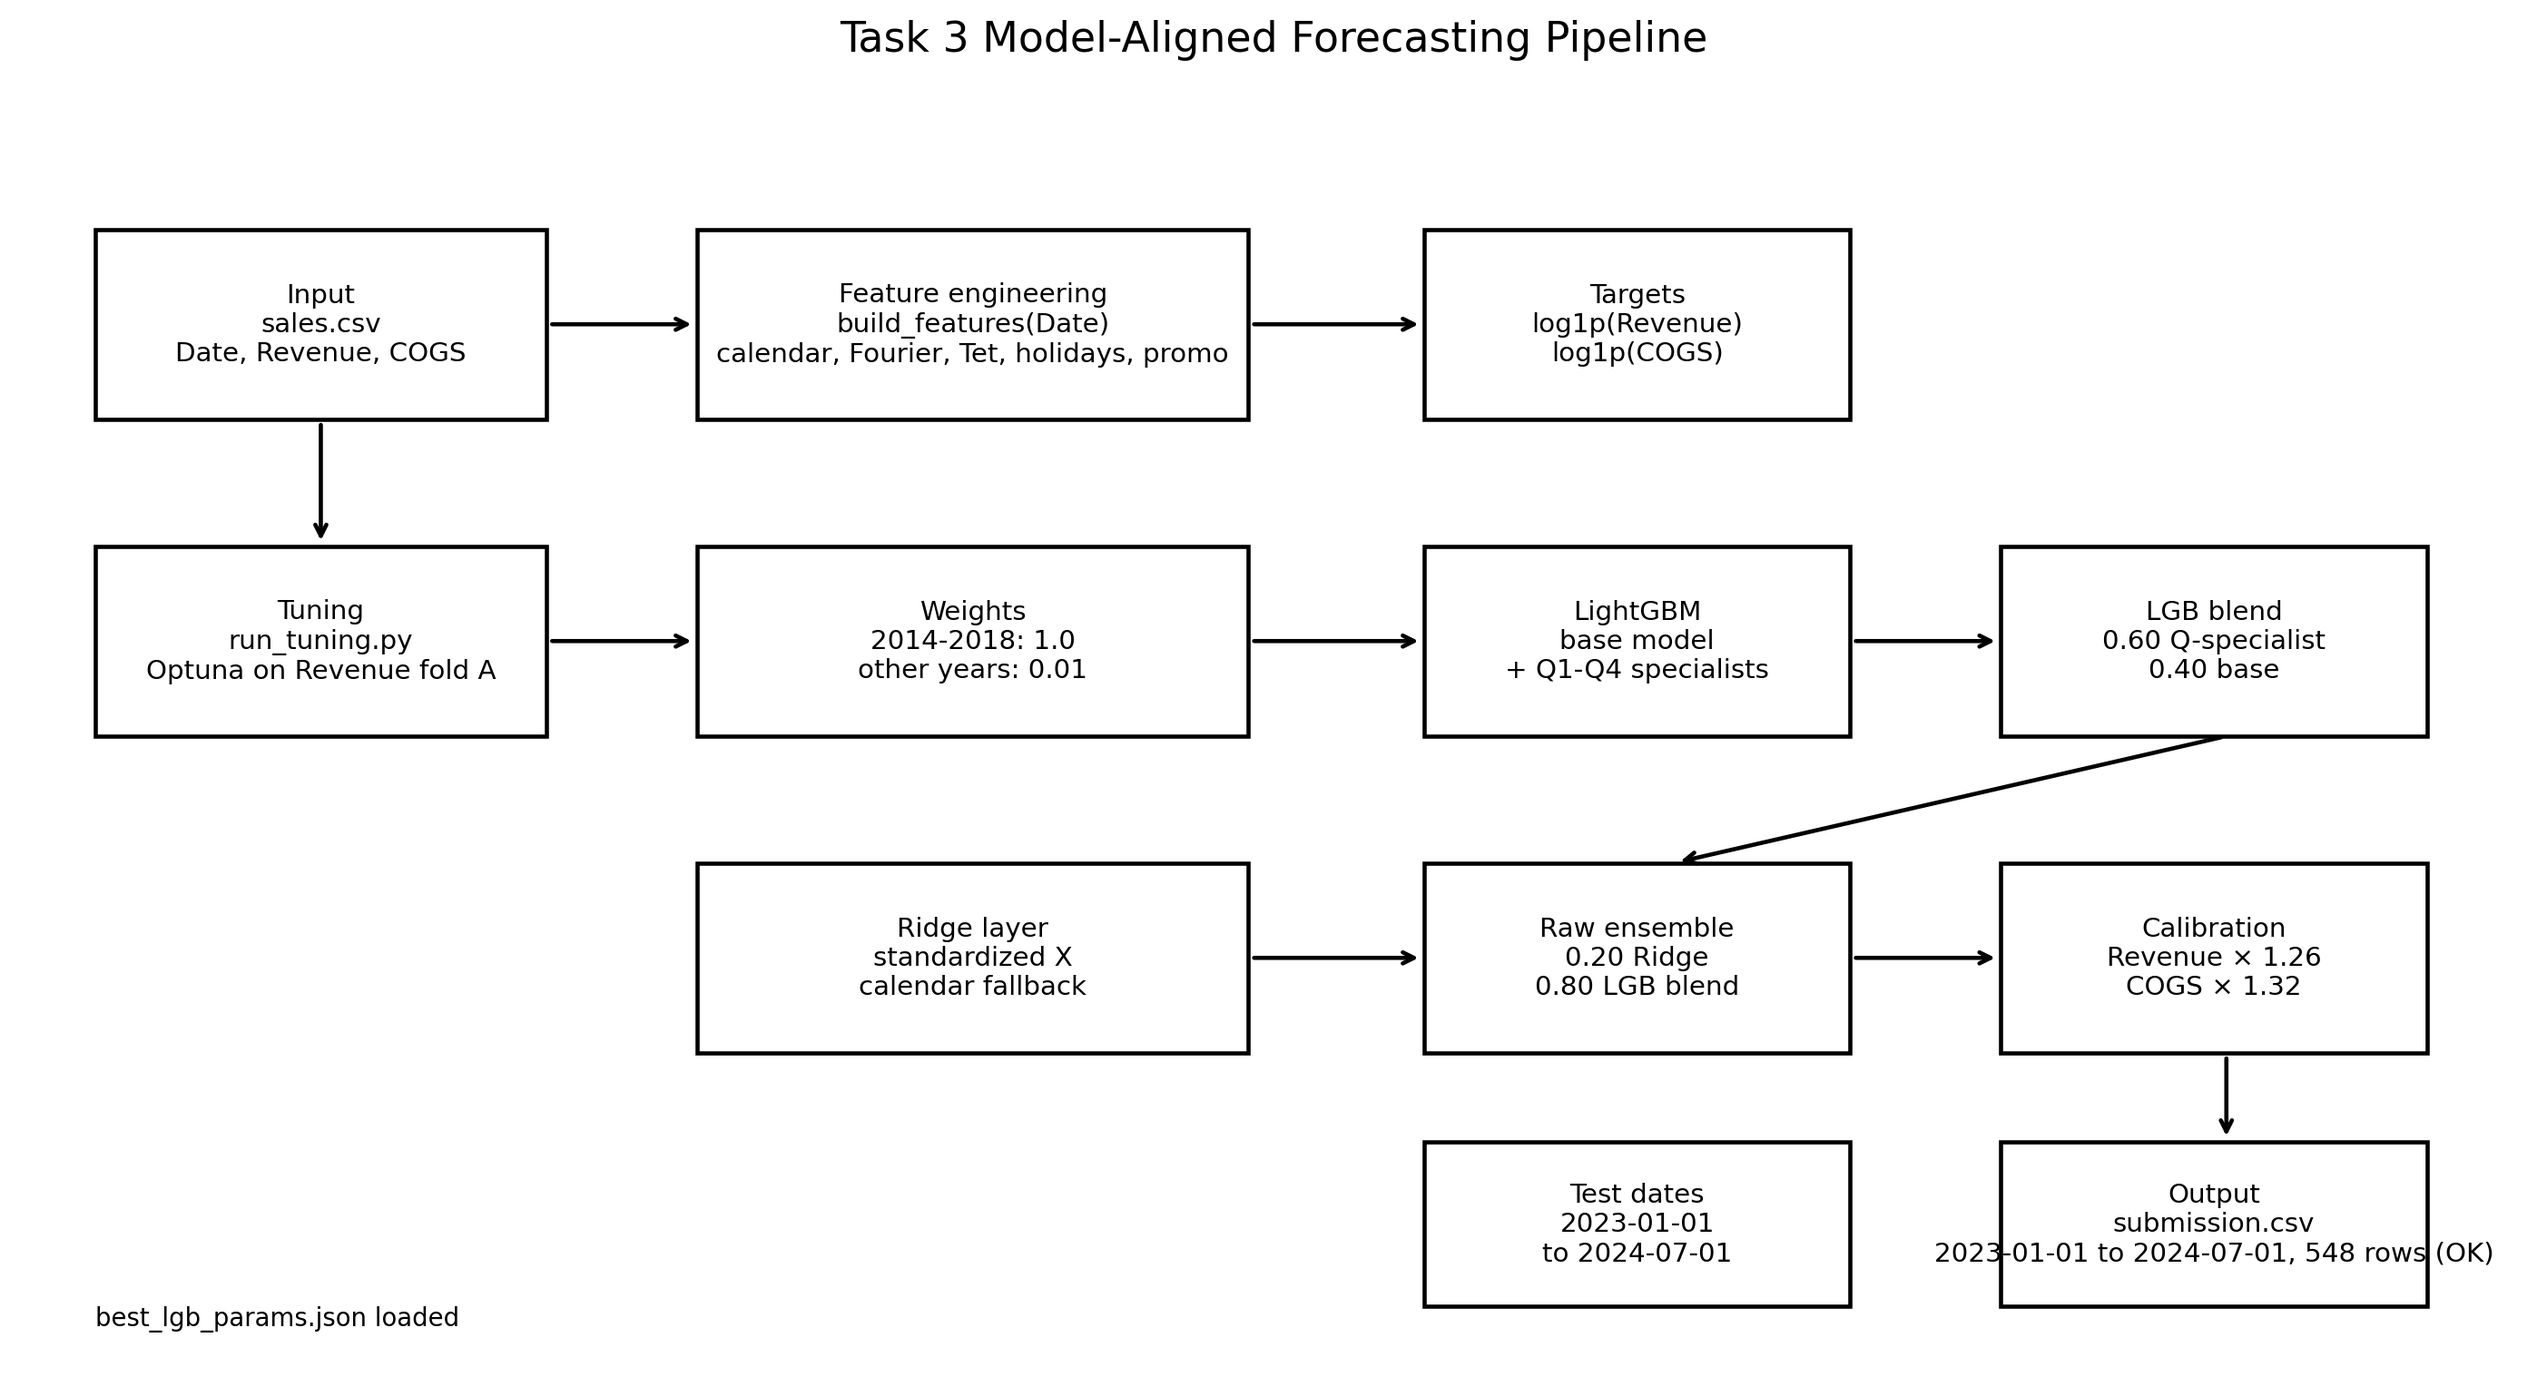
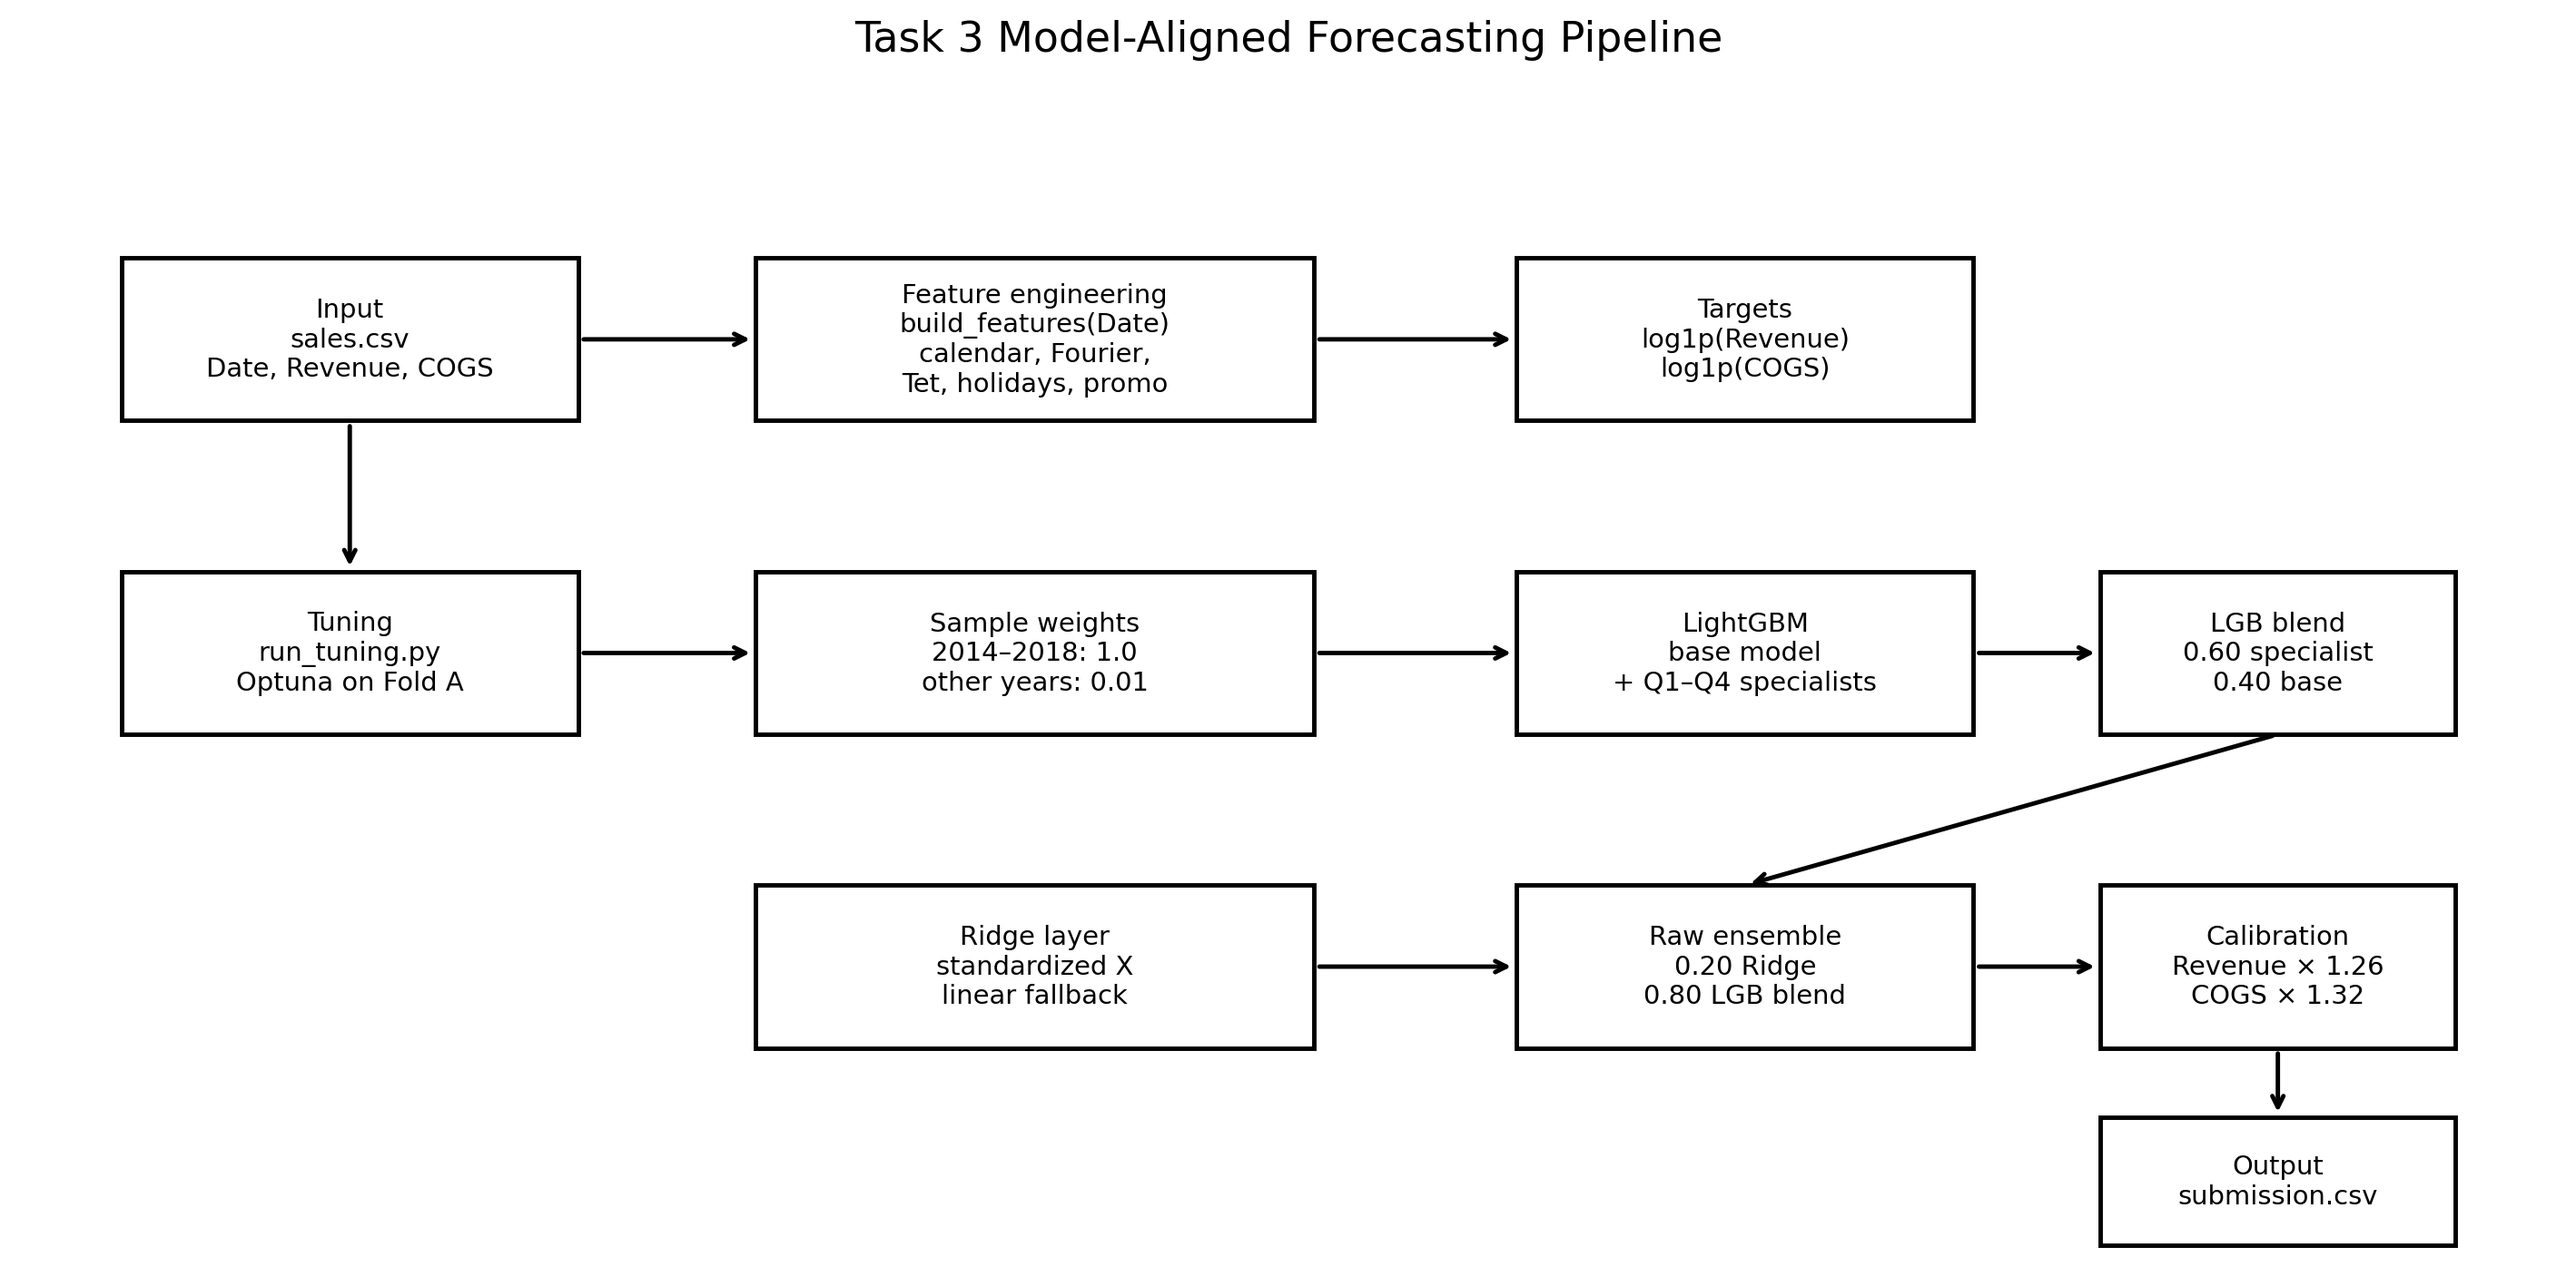
Final

diff --git a/make_task3_figures.py b/make_task3_figures.py
@@ -640,45 +640,101 @@ def run_model_aligned_validation(
     quarters: np.ndarray,
     best_params: Optional[dict],
 ) -> Tuple[Dict[str, pd.DataFrame], pd.DataFrame]:
-    # Fold A is the same validation fold used by tune_hyperparams.py.
-    train_mask, val_mask = time_series_split(dates, "A")
-    if train_mask.sum() == 0 or val_mask.sum() == 0:
-        raise RuntimeError("Fold A cannot be formed from the current sales.csv date range.")
+    """
+    Chạy validation theo đúng các fold trong src.cv_validation.time_series_split().
+
+    - validation_metrics.csv sẽ có đủ Fold A, B, C cho cả Revenue và COGS.
+    - Bổ sung metric R^2.
+    - validation_predictions_*.csv và các figure validation vẫn dùng Fold A
+      để không làm thay đổi số lượng figure đang cố định là 16.
+    """
 
     results = {}
     metric_rows = []
-    val_dates = dates[val_mask].reset_index(drop=True)
 
-    for target in TARGETS:
-        preds = predict_pipeline_like_for_target(
-            X_train=X[train_mask],
-            y_train_log=y[target][train_mask],
-            dates_train=dates[train_mask].reset_index(drop=True),
-            years_train=years[train_mask],
-            quarters_train=quarters[train_mask],
-            X_pred=X[val_mask],
-            quarters_pred=quarters[val_mask],
-            target=target,
-            best_params=best_params,
-        )
-        actual = feat.loc[val_mask, target].reset_index(drop=True)
-        pred = pd.Series(preds["final"]).reset_index(drop=True)
-        residual = pred - actual
-        mae = float(np.mean(np.abs(residual)))
-        rmse = float(np.sqrt(np.mean(residual ** 2)))
-        smape = float(np.mean(2 * np.abs(pred - actual) / np.maximum(np.abs(actual) + np.abs(pred), 1e-9)))
-        metric_rows.append({"target": target, "fold": "A", "MAE": mae, "RMSE": rmse, "sMAPE": smape})
-        results[target] = pd.DataFrame({
-            "Date": val_dates,
-            "actual": actual,
-            "pred_final_ensemble": pred,
-            "residual": residual,
-            "lgb_base": preds["lgb_base"],
-            "q_specialist": preds["q_specialist"],
-            "lgb_blend": preds["lgb_blend"],
-            "ridge": preds["ridge"],
-            "raw_before_calibration": preds["raw_before_calibration"],
-        })
+    figure_fold = "A"  # giữ figure validation theo Fold A như caption/report hiện tại
+
+    for fold in FOLD_NAMES:
+        train_mask, val_mask = time_series_split(dates, fold)
+
+        train_mask = np.asarray(train_mask, dtype=bool)
+        val_mask = np.asarray(val_mask, dtype=bool)
+
+        if train_mask.sum() == 0 or val_mask.sum() == 0:
+            print(f"[WARN] Fold {fold} has empty train/validation set. Skipping.")
+            continue
+
+        val_dates = dates[val_mask].reset_index(drop=True)
+
+        for target in TARGETS:
+            preds = predict_pipeline_like_for_target(
+                X_train=X[train_mask],
+                y_train_log=y[target][train_mask],
+                dates_train=dates[train_mask].reset_index(drop=True),
+                years_train=years[train_mask],
+                quarters_train=quarters[train_mask],
+                X_pred=X[val_mask],
+                quarters_pred=quarters[val_mask],
+                target=target,
+                best_params=best_params,
+            )
+
+            actual = feat.loc[val_mask, target].reset_index(drop=True)
+            pred = pd.Series(preds["final"]).reset_index(drop=True)
+            residual = pred - actual
+
+            mae = float(np.mean(np.abs(residual)))
+            rmse = float(np.sqrt(np.mean(residual ** 2)))
+            smape = float(
+                np.mean(
+                    2 * np.abs(pred - actual)
+                    / np.maximum(np.abs(actual) + np.abs(pred), 1e-9)
+                )
+            )
+
+            # R^2 = 1 - SS_res / SS_tot
+            ss_res = float(np.sum((actual - pred) ** 2))
+            ss_tot = float(np.sum((actual - actual.mean()) ** 2))
+            r2 = float(1 - ss_res / ss_tot) if ss_tot > 0 else np.nan
+
+            metric_rows.append({
+                "fold": fold,
+                "target": target,
+                "train_start": pd.Timestamp(dates[train_mask].min()).date().isoformat(),
+                "train_end": pd.Timestamp(dates[train_mask].max()).date().isoformat(),
+                "val_start": pd.Timestamp(dates[val_mask].min()).date().isoformat(),
+                "val_end": pd.Timestamp(dates[val_mask].max()).date().isoformat(),
+                "n_train": int(train_mask.sum()),
+                "n_val": int(val_mask.sum()),
+                "MAE": mae,
+                "RMSE": rmse,
+                "sMAPE": smape,
+                "R^2": r2,
+            })
+
+            # Chỉ lưu prediction chi tiết cho Fold A để các hàm vẽ figure phía sau không bị lỗi
+            if fold == figure_fold:
+                results[target] = pd.DataFrame({
+                    "Date": val_dates,
+                    "actual": actual,
+                    "pred_final_ensemble": pred,
+                    "residual": residual,
+                    "lgb_base": preds["lgb_base"],
+                    "q_specialist": preds["q_specialist"],
+                    "lgb_blend": preds["lgb_blend"],
+                    "ridge": preds["ridge"],
+                    "raw_before_calibration": preds["raw_before_calibration"],
+                })
+
+    metrics = pd.DataFrame(metric_rows)
+
+    if not metrics.empty:
+        metrics = metrics.sort_values(["fold", "target"]).reset_index(drop=True)
+
+    if not results:
+        raise RuntimeError("No validation prediction results were generated for figure fold A.")
+
+    return results, metrics
 
     metrics = pd.DataFrame(metric_rows)
     return results, metrics
@@ -769,46 +825,95 @@ def fig_15_submission_monthly_forecast(sub: Optional[pd.DataFrame], out_dir: Pat
 
 
 def fig_16_model_pipeline_overview(out_dir: Path, submission_status: str, has_best_params: bool) -> None:
-    fig, ax = plt.subplots(figsize=(13, 7))
+    """
+    Draw a clean model-aligned pipeline figure.
+
+    Giữ nguyên tham số submission_status và has_best_params để không cần sửa main(),
+    nhưng không hiển thị chúng trên figure vì dễ làm hình bị rối.
+    """
+    fig, ax = plt.subplots(figsize=(13, 6.5))
     ax.axis("off")
 
     boxes = [
-        (0.03, 0.74, 0.18, 0.15, "Input\nsales.csv\nDate, Revenue, COGS"),
-        (0.27, 0.74, 0.22, 0.15, "Feature engineering\nbuild_features(Date)\ncalendar, Fourier, Tet, holidays, promo"),
-        (0.56, 0.74, 0.17, 0.15, "Targets\nlog1p(Revenue)\nlog1p(COGS)"),
-        (0.03, 0.49, 0.18, 0.15, "Tuning\nrun_tuning.py\nOptuna on Revenue fold A"),
-        (0.27, 0.49, 0.22, 0.15, "Weights\n2014-2018: 1.0\nother years: 0.01"),
-        (0.56, 0.49, 0.17, 0.15, "LightGBM\nbase model\n+ Q1-Q4 specialists"),
-        (0.79, 0.49, 0.17, 0.15, "LGB blend\n0.60 Q-specialist\n0.40 base"),
-        (0.27, 0.24, 0.22, 0.15, "Ridge layer\nstandardized X\ncalendar fallback"),
-        (0.56, 0.24, 0.17, 0.15, "Raw ensemble\n0.20 Ridge\n0.80 LGB blend"),
-        (0.79, 0.24, 0.17, 0.15, "Calibration\nRevenue × 1.26\nCOGS × 1.32"),
-        (0.56, 0.04, 0.17, 0.13, "Test dates\n2023-01-01\nto 2024-07-01"),
-        (0.79, 0.04, 0.17, 0.13, "Output\nsubmission.csv\n" + submission_status),
+        # row 1
+        (0.04, 0.72, 0.18, 0.14, "Input\nsales.csv\nDate, Revenue, COGS"),
+        (0.29, 0.72, 0.22, 0.14, "Feature engineering\nbuild_features(Date)\ncalendar, Fourier,\nTet, holidays, promo"),
+        (0.59, 0.72, 0.18, 0.14, "Targets\nlog1p(Revenue)\nlog1p(COGS)"),
+
+        # row 2
+        (0.04, 0.45, 0.18, 0.14, "Tuning\nrun_tuning.py\nOptuna on Fold A"),
+        (0.29, 0.45, 0.22, 0.14, "Sample weights\n2014–2018: 1.0\nother years: 0.01"),
+        (0.59, 0.45, 0.18, 0.14, "LightGBM\nbase model\n+ Q1–Q4 specialists"),
+        (0.82, 0.45, 0.14, 0.14, "LGB blend\n0.60 specialist\n0.40 base"),
+
+        # row 3
+        (0.29, 0.18, 0.22, 0.14, "Ridge layer\nstandardized X\nlinear fallback"),
+        (0.59, 0.18, 0.18, 0.14, "Raw ensemble\n0.20 Ridge\n0.80 LGB blend"),
+        (0.82, 0.18, 0.14, 0.14, "Calibration\nRevenue × 1.26\nCOGS × 1.32"),
+
+        # output
+        (0.82, 0.01, 0.14, 0.11, "Output\nsubmission.csv"),
     ]
+
     for x, y, w, h, text in boxes:
-        rect = plt.Rectangle((x, y), w, h, fill=False, linewidth=1.5)
+        rect = plt.Rectangle(
+            (x, y),
+            w,
+            h,
+            fill=False,
+            linewidth=1.6,
+            edgecolor="black"
+        )
         ax.add_patch(rect)
-        ax.text(x + w / 2, y + h / 2, text, ha="center", va="center", fontsize=9.6)
+        ax.text(
+            x + w / 2,
+            y + h / 2,
+            text,
+            ha="center",
+            va="center",
+            fontsize=9.5
+        )
 
     arrows = [
-        ((0.21, 0.815), (0.27, 0.815)),
-        ((0.49, 0.815), (0.56, 0.815)),
-        ((0.12, 0.74), (0.12, 0.64)),
-        ((0.21, 0.565), (0.27, 0.565)),
-        ((0.49, 0.565), (0.56, 0.565)),
-        ((0.73, 0.565), (0.79, 0.565)),
-        ((0.49, 0.315), (0.56, 0.315)),
-        ((0.88, 0.49), (0.66, 0.39)),
-        ((0.73, 0.315), (0.79, 0.315)),
-        ((0.88, 0.24), (0.88, 0.17)),
-    ]
-    for start, end in arrows:
-        ax.annotate("", xy=end, xytext=start, arrowprops=dict(arrowstyle="->", lw=1.5))
+        # top row
+        ((0.22, 0.79), (0.29, 0.79)),
+        ((0.51, 0.79), (0.59, 0.79)),
 
-    best_params_note = "best_lgb_params.json loaded" if has_best_params else "default LightGBM params used if no best_lgb_params.json"
-    ax.text(0.03, 0.02, best_params_note, fontsize=9, ha="left", va="bottom")
-    ax.set_title("Task 3 Model-Aligned Forecasting Pipeline", fontsize=15, pad=14)
+        # input to tuning
+        ((0.13, 0.72), (0.13, 0.59)),
+
+        # middle row
+        ((0.22, 0.52), (0.29, 0.52)),
+        ((0.51, 0.52), (0.59, 0.52)),
+        ((0.77, 0.52), (0.82, 0.52)),
+
+        # ridge to raw ensemble
+        ((0.51, 0.25), (0.59, 0.25)),
+
+        # LGB blend to raw ensemble
+        ((0.89, 0.45), (0.68, 0.32)),
+
+        # raw ensemble to calibration
+        ((0.77, 0.25), (0.82, 0.25)),
+
+        # calibration to output
+        ((0.89, 0.18), (0.89, 0.12)),
+    ]
+
+    for start, end in arrows:
+        ax.annotate(
+            "",
+            xy=end,
+            xytext=start,
+            arrowprops=dict(arrowstyle="->", lw=1.6)
+        )
+
+    ax.set_title(
+        "Task 3 Model-Aligned Forecasting Pipeline",
+        fontsize=15,
+        pad=16
+    )
+
     save_fig(out_dir / EXPECTED_FIGURES[15])
 
 
